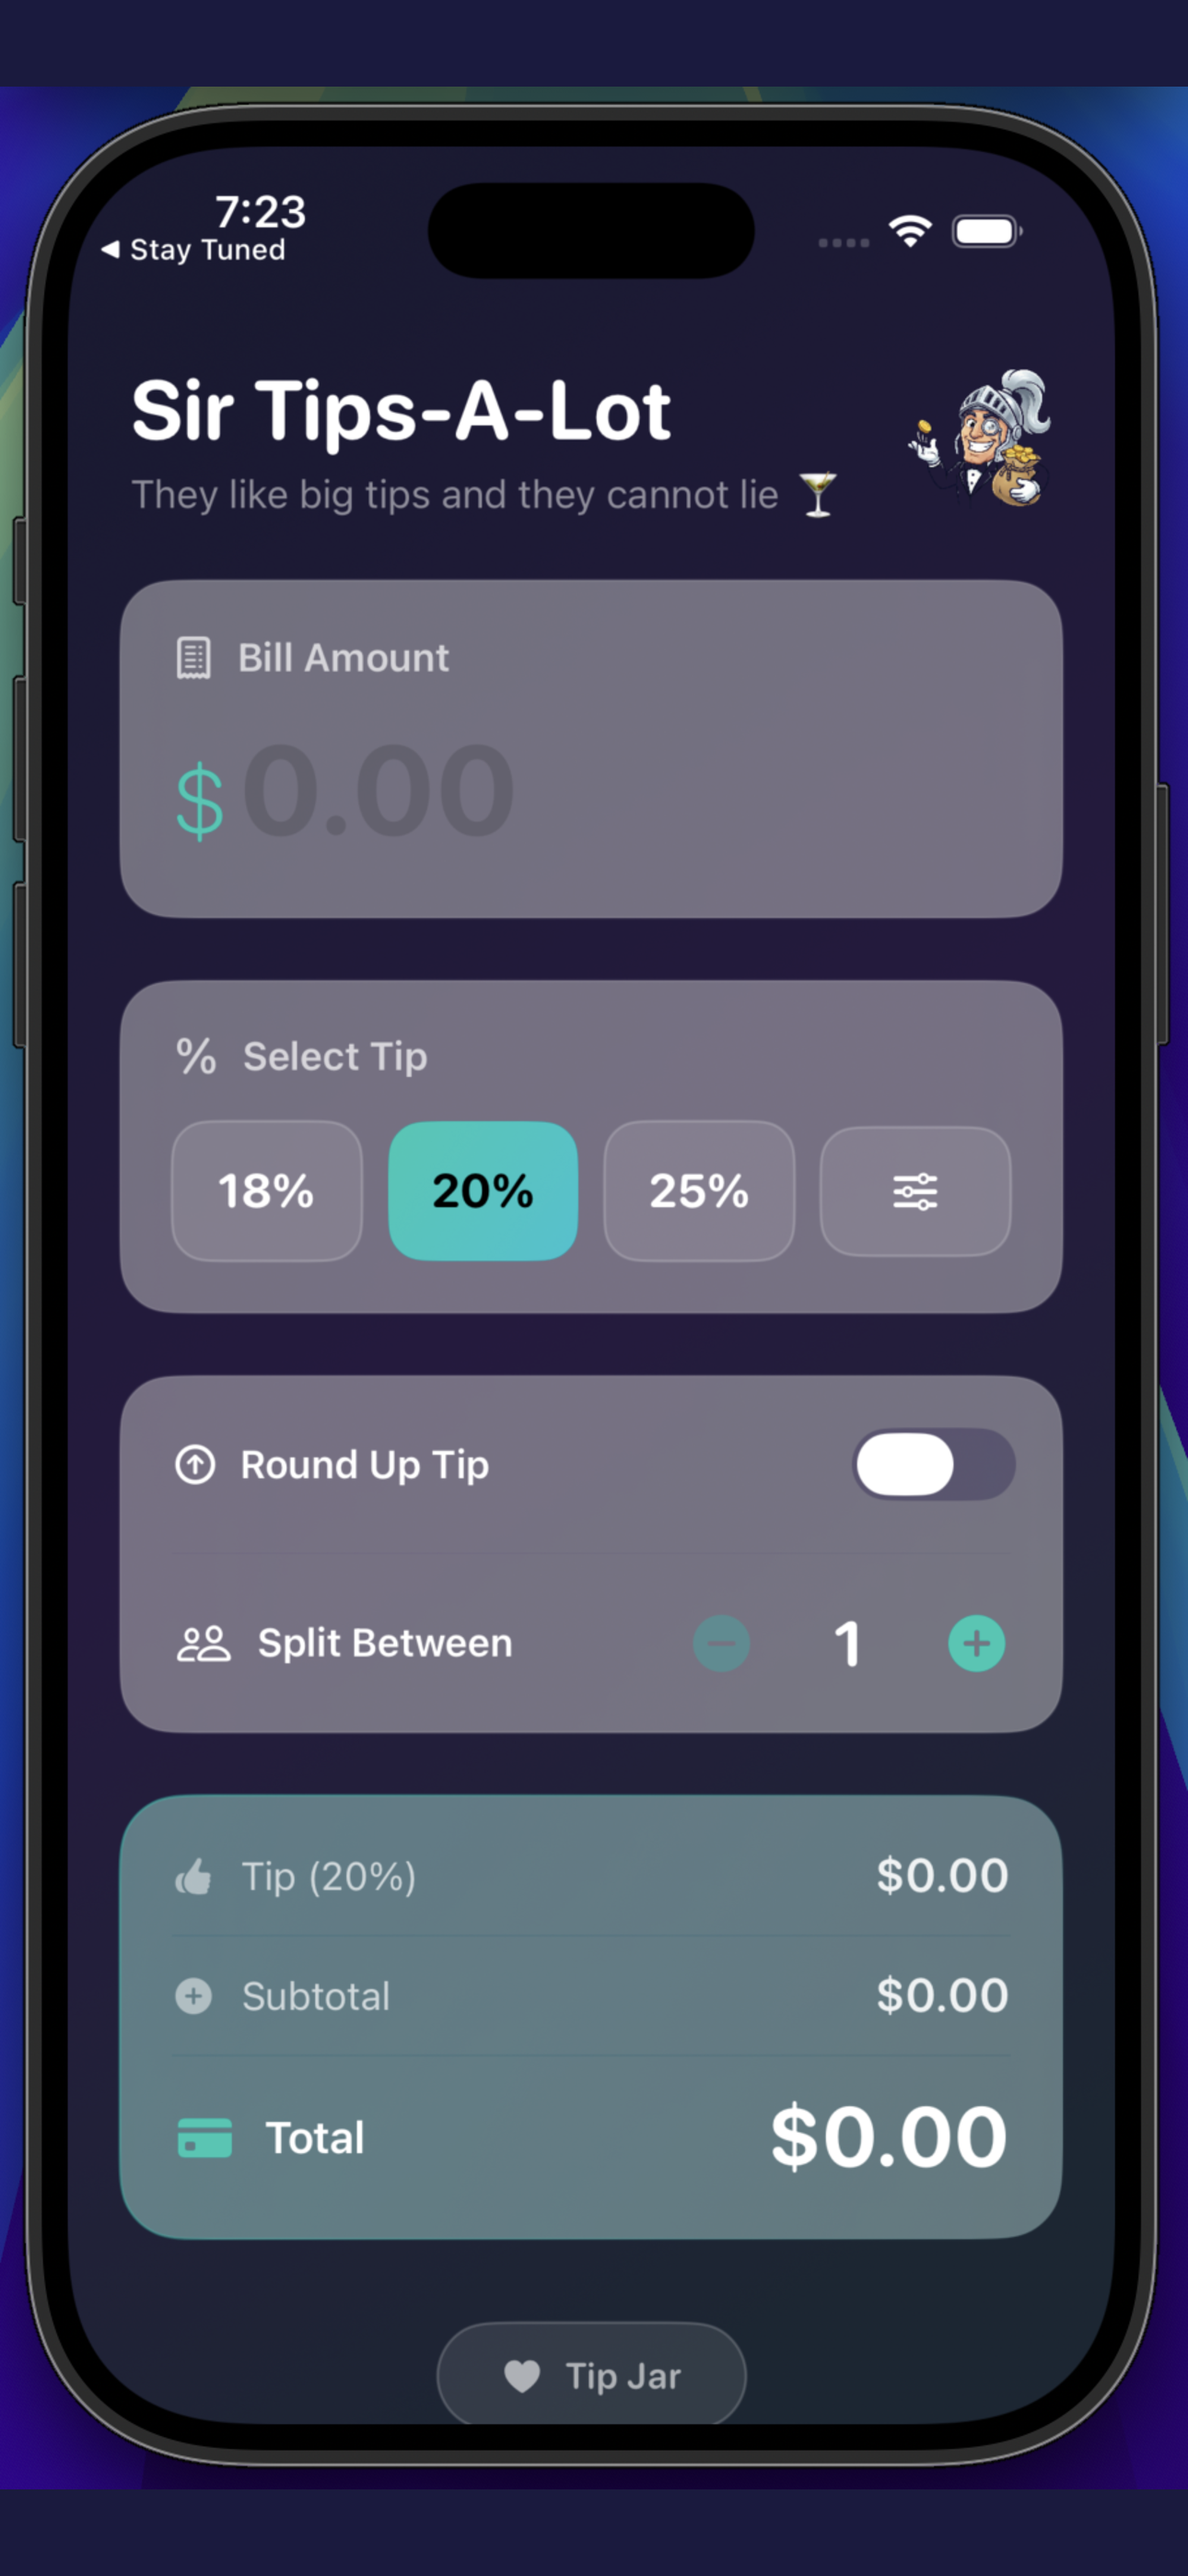
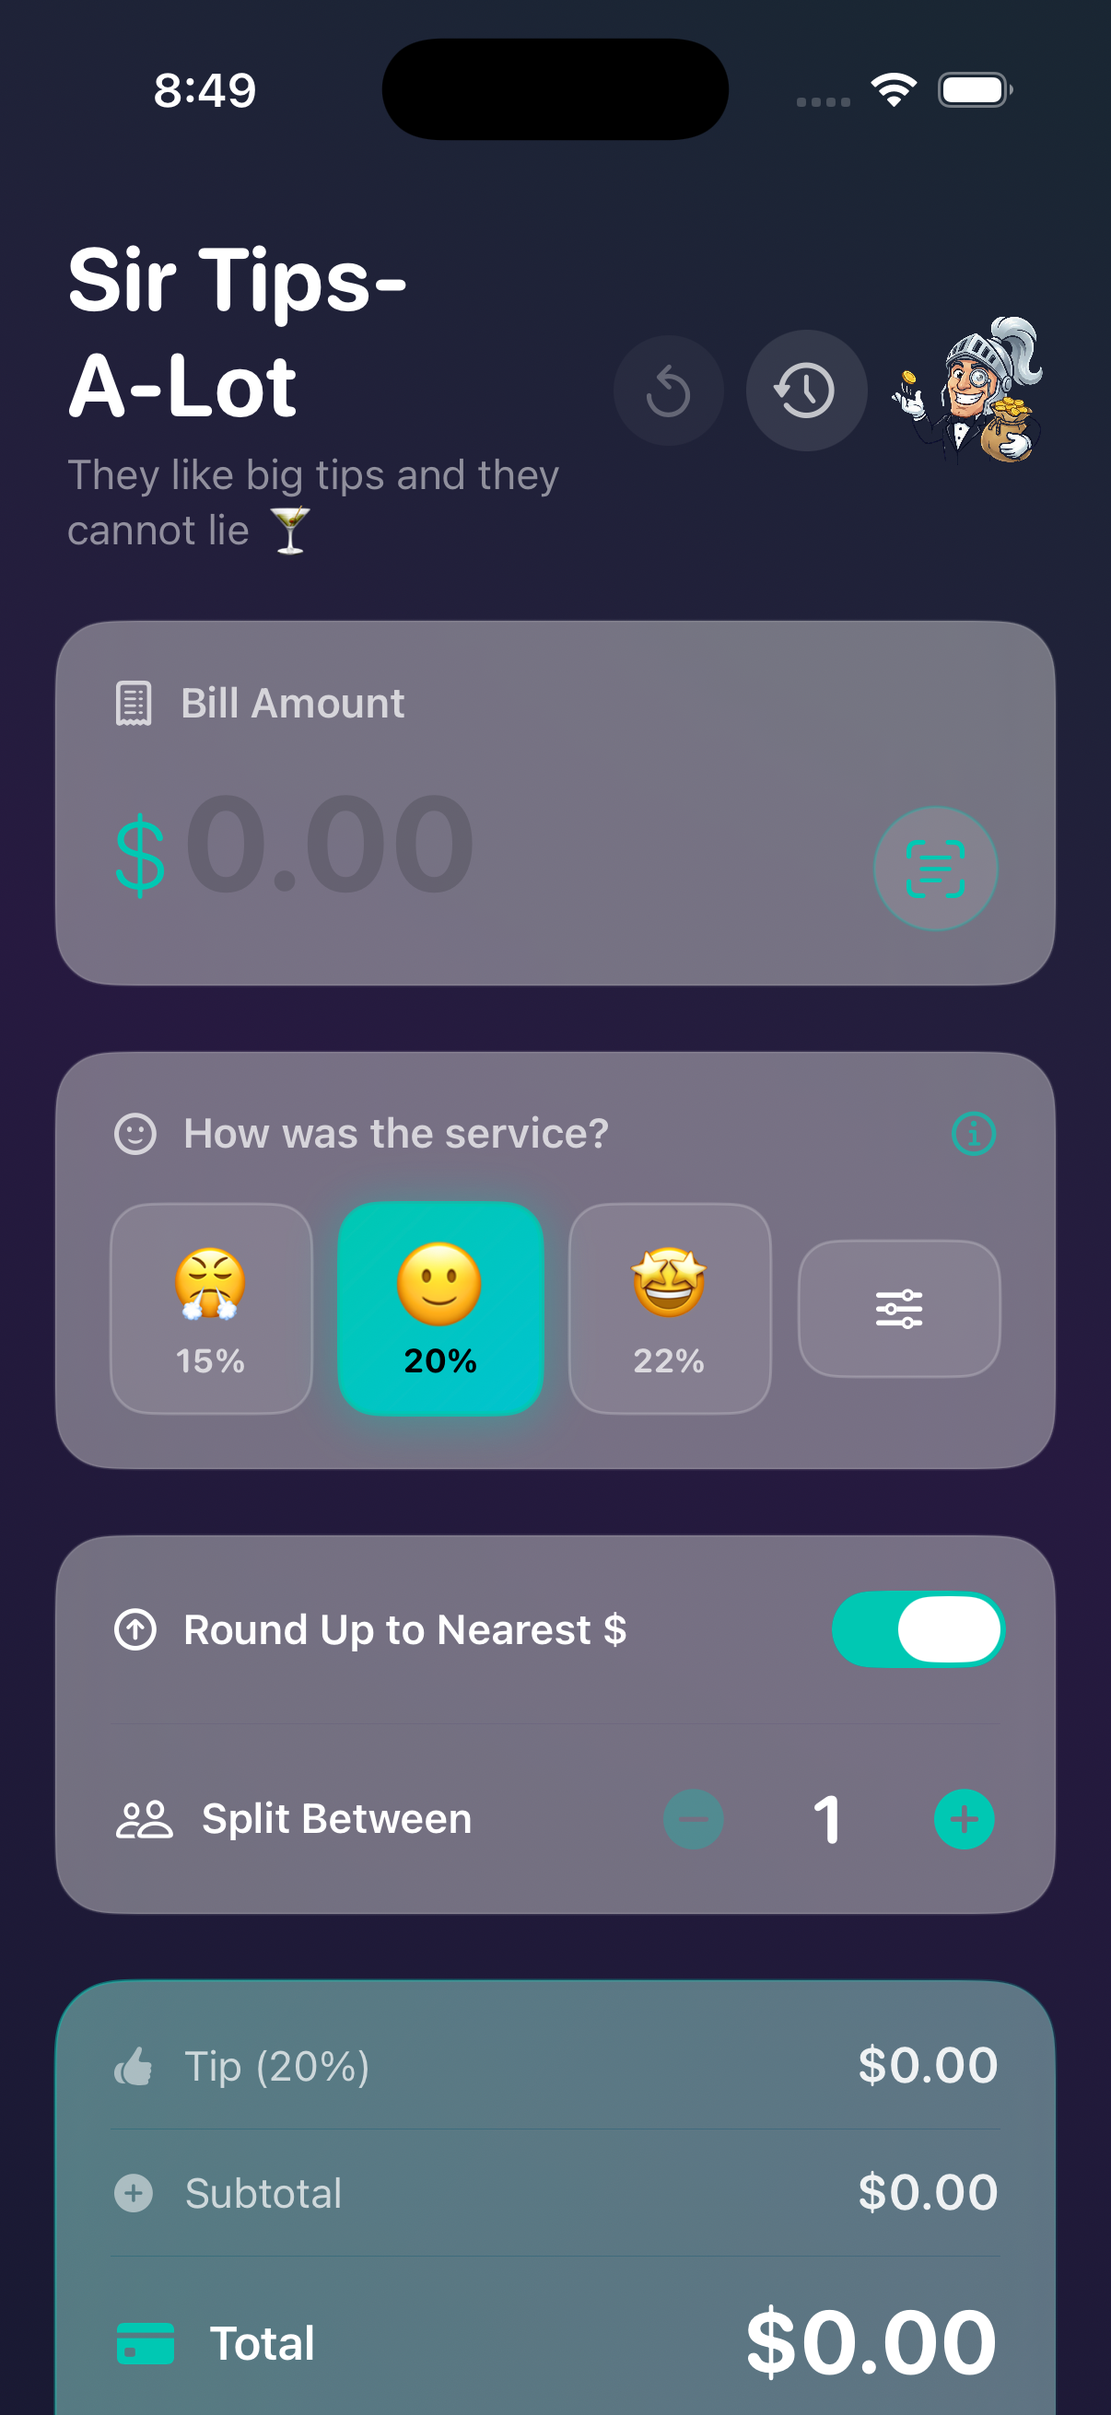
Update README with new features, screenshots, and App Store assets
- Updated README with new logo and comprehensive feature list
- Added sections for sentiment-based tipping, receipt scanning, location intelligence
- Updated screenshots to show new UI (emoji service rating, bill history)
- Added App Store sized screenshots (6.7" and 6.5") in screenshots/appstore/
- Updated screenshot descriptions in README

diff --git a/README.md b/README.md
@@ -54,13 +54,22 @@ This is my first iOS application.
 
 <p align="center">
   <img src="screenshots/1.png" width="250" alt="Main Screen" />
-  <img src="screenshots/2.png" width="250" alt="Tip Calculation" />
-  <img src="screenshots/3.png" width="250" alt="Split Bill" />
+  <img src="screenshots/2.png" width="250" alt="Bill Splitting" />
+  <img src="screenshots/3.png" width="250" alt="Bill History" />
 </p>
 
-| Main Screen | Tip Calculation | Split Bill |
-|:-----------:|:---------------:|:----------:|
-| Enter your bill amount | Rate service with emojis | Split between multiple people |
+| Main Screen | Bill Splitting | Bill History |
+|:-----------:|:--------------:|:------------:|
+| Emoji-based tip selection | Per-person breakdown with notes | Lifetime stats & detailed records |
+
+### App Store Screenshots
+
+Pre-sized screenshots for App Store submission are available in `screenshots/appstore/`:
+
+| Size | Dimensions | Device |
+|------|------------|--------|
+| 6.7" | 1290 × 2796 | iPhone 14/15 Pro Max |
+| 6.5" | 1284 × 2778 | iPhone 14/15 Plus |
 
 ## Requirements
 
